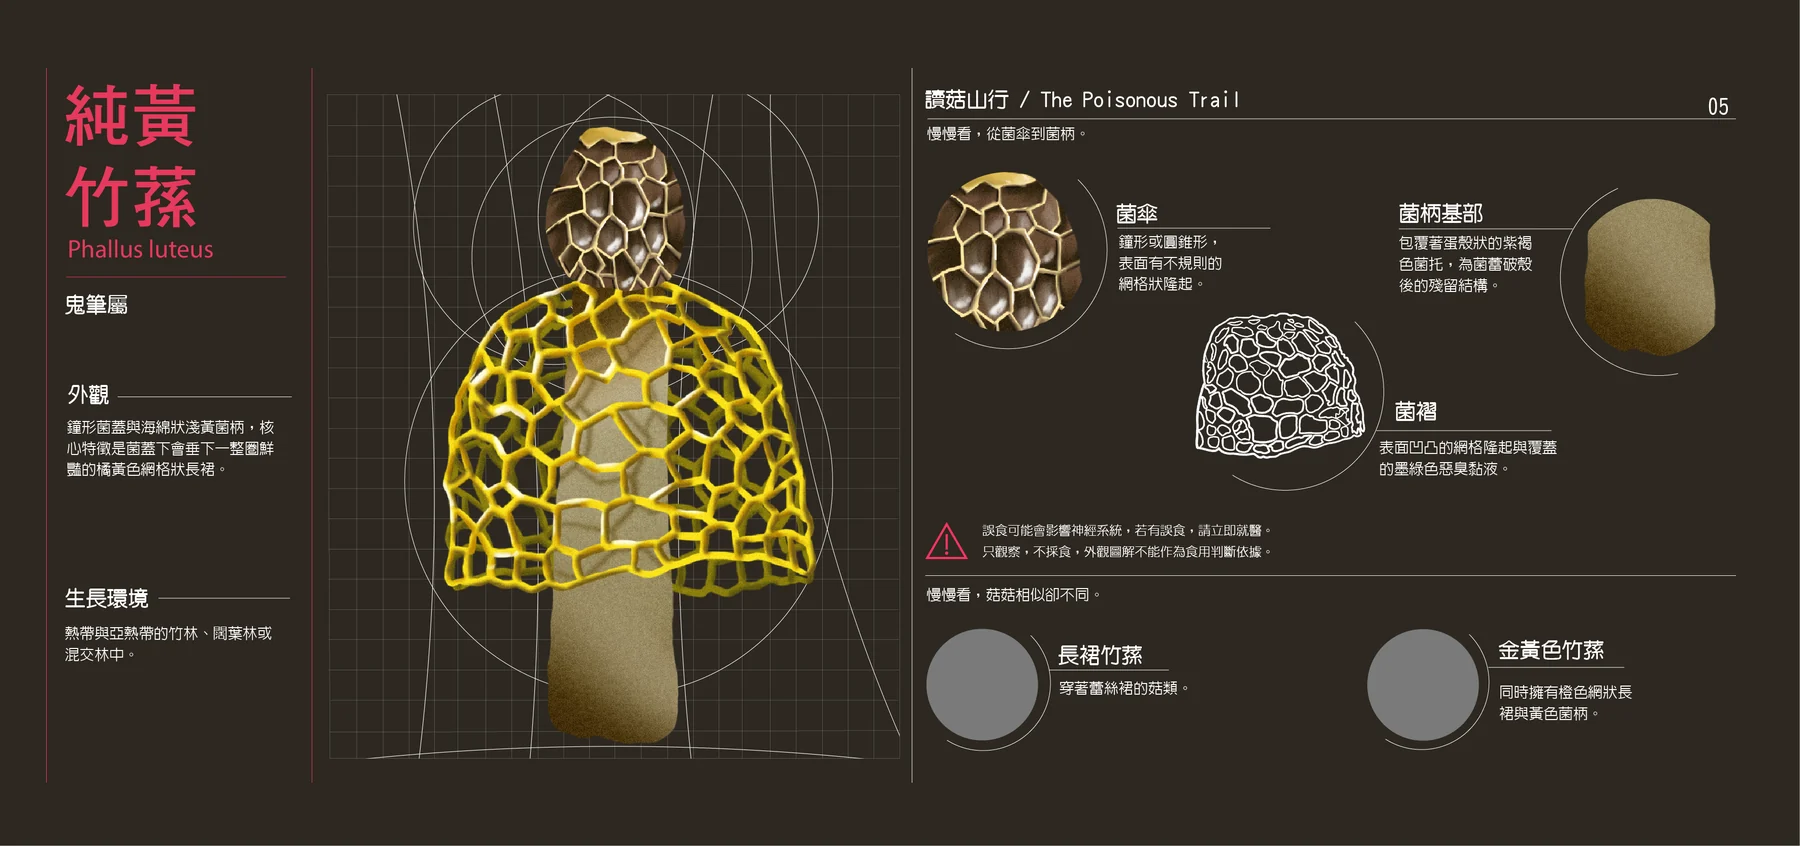
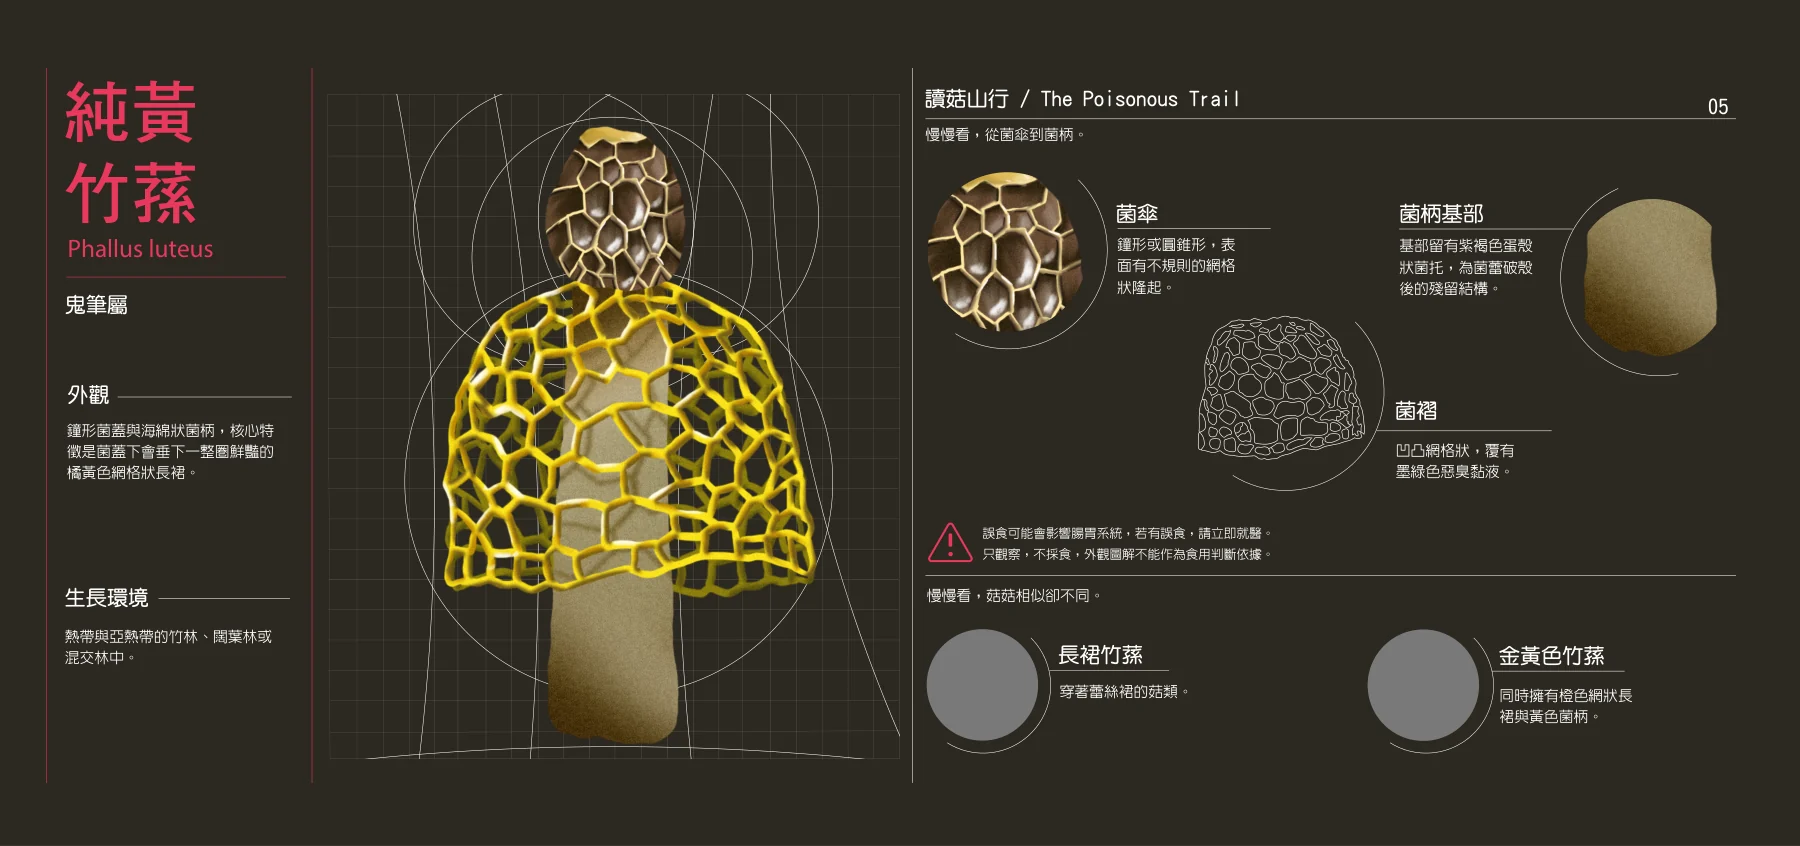
讀菇：書頁改用新版 PDF（含菌褶線稿）＋新增純黃白鬼傘書頁、書頁文字同步、新增 4 種相似可食菇圖

diff --git a/dugu-trail/js/data.js b/dugu-trail/js/data.js
@@ -250,39 +250,39 @@ window.TRAIL = (function () {
       look: '醒目的紅白相間棒狀。幼時為白色卵狀，成熟後伸出約 6–10 公分的菌棒；頂端為鮮紅色，覆有褐色異味黏液，菌柄則為粉白色海綿狀。',
       habitat: '喜好高溫高濕，常在夏秋梅雨或雨後，群生或單生於竹林、花園及草地中。主要依靠肥沃、濕潤且富含有機質的腐殖質土壤或枯死竹根生長。',
       symptom: '氣味強烈、不可食用，觸摸後請洗手。誤食可能造成身體不適，若有誤食，請立即就醫。',
-      book: { page: '01', parts: [['菌傘', '頭部並不呈傘狀，而是與菌柄癒合、不分離的棒狀構造。'], ['菌柄基部', '破裂的白色蛋殼中抽長出來。']],
-        like: [['狗蛇頭菌', '酷似雄狗的生殖器或昂首的蛇頭而得名。'], ['紅鬼筆', '特徵是「頭帽分離」的結構與鮮豔的紅色菌柄。']] },
+      book: { page: '01', parts: [['菌傘', '細長舌狀或棒狀，表面具有明顯的色澤變化。'], ['菌柄基部', '白色卵狀菌托，包覆菌柄下方，質地柔軟。'], ['菌褶', '表面多孔狀。']],
+        like: [['狗蛇頭菌', '酷似雄狗的生殖器或昂首的蛇頭而得名。'], ['紅鬼筆', '頭帽分離的結構與鮮豔的紅色菌柄。']] },
       like: ['phallus'] },
     chloro: { name: '綠褶菇', alias: '大青褶傘', sci: 'Chlorophyllum molybdites', fam: '青褶傘屬', tox: 3, type: '胃腸型',
       stage: 2, season: '春–秋（大雨後）', color: '#e9dcc6', img: 'img/mush/chloro.webp', verified: true,
       look: '菌蓋平緩、佈滿褐色鱗片，成熟時菌褶會變成灰綠色，且菌柄上有菌環。',
       habitat: '有毒的綠褶菇是地表腐生菌，常見於都市公園、分隔島草皮及一般農地，大雨後常在草地上長成一整圈的「仙女環」。',
       symptom: '食後 1–3 小時劇烈嘔吐、腹瀉、腹痛，是台灣誤食中毒案例最多的毒菇之一。若有誤食，請立即就醫。',
-      book: { page: '02', parts: [['菌傘', '平緩成傘狀，表面呈白色或淺土色。'], ['菌柄基部', '基部膨大，留有環帶狀殘留物。'], ['菌褶', '藏在菌傘下，白色而密集。']],
-        like: [['高大環柄菇', '體型巨大的蕈類，子實體完全張開時酷似一把大陽傘。'], ['雞肉絲菇', '體型巨大如陽傘，傘面佈滿蛇皮狀碎鱗片。']] },
-      like: ['lepiota', 'conocybe'] },
+      book: { page: '02', parts: [['菌傘', '菌蓋呈傘狀，表面帶有褐色鱗片。'], ['菌柄基部', '基部膨大，留有環帶狀殘留物。'], ['菌褶', '藏在菌傘下，白色而密集。']],
+        like: [['高大環柄菇', '體型碩大，成熟後菌蓋展開如大型陽傘。'], ['雞肉絲菇', '體型巨大如陽傘，菌蓋布滿蛇皮狀鱗片。']] },
+      like: ['macro', 'termito'] },
     panaeolus: { name: '蝶形斑褶菇', alias: '花褶傘', sci: 'Panaeolus papilionaceus', fam: '斑褶菇屬', tox: 3, type: '神經型',
       stage: 3, season: '春–秋', color: '#d8b07a', img: 'img/mush/panaeolus.webp', verified: true,
       look: '糞便上的鐘形小毒菇。具備灰黑色的鐘形傘帽、佈滿斑點的密集黑褶，以及暗紅褐色的細長菌柄。',
       habitat: '生於牛馬糞便上，常成群出現在低海拔、潮濕的牧場與草原。',
       symptom: '可能造成幻覺、焦慮、心跳加快與判斷力下降。若有誤食，請立即就醫。',
       book: { page: '03', parts: [['菌傘', '表面光滑，邊緣常殘留白色的碎屑。'], ['菌柄基部', '略微膨大，且無菌托與菌環。'], ['菌褶', '密集的直生狀，邊緣常帶有醒目的白色。']],
-        like: [['高大環柄菇', '體型巨大的蕈類，子實體完全張開時酷似一把大陽傘。'], ['雞肉絲菇', '體型巨大如陽傘，傘面佈滿蛇皮狀碎鱗片。']] },
+        like: [['高大環柄菇', '體型巨大的蕈類。子實體完全張開時酷似一把大陽傘。'], ['雞肉絲菇', '體型巨大如陽傘，傘面佈滿蛇皮狀碎鱗片。']] },
       like: ['psilocybe', 'inocybe'] },
     inocybe: { name: '汙白絲蓋傘', sci: 'Inocybe geophylla', fam: '絲蓋傘科', tox: 4, type: '毒蕈鹼型',
       stage: 17, season: '夏–秋', color: '#efe5d6', img: 'img/mush/inocybe.webp', verified: true,
       look: '菌蓋呈鐘形至圓錐形，成熟後逐漸平展，表面呈白色至乳白色，帶有細緻絲狀纖維。菌柄細長，呈白色，基部略微膨大。',
       habitat: '常見於針葉林及闊葉林地面，與樹木形成菌根共生關係，多生長於潮濕、富含腐植質的土壤中。',
       symptom: '食後約 30 分鐘大量流汗、流淚、流口水、視線模糊，嚴重時心跳變慢。若有誤食，請立即就醫。',
-      book: { page: '17', parts: [['菌傘', '表面具細緻絲狀纖維，中央微凸。'], ['菌柄基部', '基部略膨大，表面帶有細微纖維。'], ['菌褶', '幼時呈淡白色，成熟後逐漸轉為灰褐色至褐色。']],
-        like: [['野蘑菇', '幼時呈半球形，成熟後菌褶逐漸轉為褐色。'], ['淡紫絲蓋傘', '淡紫至乳白色，菌蓋具絲狀纖維。']] },
+      book: { page: '17', parts: [['菌傘', '表面具細緻絲狀纖維，中央微凸。'], ['菌柄基部', '基部略膨大，表面帶有細微纖維。'], ['菌褶', '排列緊密，成熟逐漸轉為淡褐色。']],
+        like: [['絲蓋小包腳菇', '絲狀菌蓋，菌柄細長，常見於潮濕環境。'], ['淡紫絲蓋傘', '淡紫至乳白色，菌蓋具絲狀纖維。']] },
       like: ['conocybe', 'panaeolus'] },
     phallus: { name: '純黃竹蓀', sci: 'Phallus luteus', fam: '鬼筆屬', tox: 2, type: '胃腸型',
       stage: 5, season: '夏（雨後清晨）', color: '#e2c021', img: 'img/mush/phallus.webp', verified: true,
       look: '鐘形菌蓋與海綿狀淺黃菌柄，核心特徵是菌蓋下會垂下一整圈鮮豔的橘黃色網格狀長裙。',
       habitat: '熱帶與亞熱帶的竹林、闊葉林或混交林中。',
       symptom: '與可食的長裙竹蓀外形相近，誤食可能嘔吐、腹瀉。若有誤食，請立即就醫。',
-      book: { page: '05', parts: [['菌傘', '鐘形或圓錐形，表面有不規則的網格狀隆起。'], ['菌柄基部', '包覆著蛋殼狀的紫褐色菌托，為菌蕾破殼後的殘留結構。'], ['菌褶', '表面凹凸的網格隆起與覆蓋的墨綠色惡臭黏液。']],
+      book: { page: '05', parts: [['菌傘', '鐘形或圓錐形，表面有不規則的網格狀隆起。'], ['菌柄基部', '基部留有紫褐色蛋殼狀菌托，為菌蕾破殼後的殘留結構。'], ['菌褶', '凹凸網格狀，覆有墨綠色惡臭黏液。']],
         like: [['長裙竹蓀', '穿著蕾絲裙的菇類。'], ['金黃色竹蓀', '同時擁有橙色網狀長裙與黃色菌柄。']] },
       like: ['mutinus', 'leucocoprinus'] },
   exitialis: { name: '致命鵝膏', sci: 'Amanita exitialis', fam: '鵝膏菌科', tox: 5, type: '肝毒型',
@@ -291,6 +291,31 @@ window.TRAIL = (function () {
       habitat: '低至中海拔闊葉林地面，與殼斗科植物共生。',
       symptom: '含鵝膏毒肽，潛伏 6–24 小時後嘔吐腹瀉，接著「假性好轉」，2–3 天後肝腎衰竭。',
       like: ['fuliginea', 'chloro'], svg: { kind: 'amanita', cap: '#f6f3ec', stem: '#f6f3ec', volva: 1 } },
+    /* 相似可食菇（03/相似菇/，本專題手繪）：ref＝只在「相似卻不同」出現，不放進山行層、不算圖鑑收集數 */
+    macro: { name: '高大環柄菇', alias: '雨傘菇', sci: 'Macrolepiota procera', fam: '蘑菇科', tox: 0, type: '可食・對照', ref: true,
+      stage: 2, season: '夏–秋', color: '#c9ad86', img: 'img/mush/macro.webp', verified: true,
+      look: '體型碩大，成熟後菌蓋展開如大型陽傘，傘面有褐色鱗片，菌柄細長、菌環可上下移動。',
+      habitat: '草地、林緣與竹林邊。',
+      symptom: '可食用，但和綠褶菇幾乎一模一樣（綠褶菇成熟後菌褶轉灰綠），是台灣最常見的誤採組合，野外不要自己採。',
+      like: ['chloro', 'termito'] },
+    termito: { name: '雞肉絲菇', sci: 'Termitomyces sp.', fam: '離褶傘科', tox: 0, type: '可食・對照', ref: true,
+      stage: 2, season: '夏（梅雨後）', color: '#cfb48e', img: 'img/mush/termito.webp', verified: true,
+      look: '體型巨大如陽傘，菌蓋布滿蛇皮狀鱗片，中央有尖凸，菌柄長、往下連到白蟻巢。',
+      habitat: '和白蟻共生，從地下的白蟻巢長出，常見於農地、竹林與林緣。',
+      symptom: '可食用的野菇，但大型白色傘菇也可能是綠褶菇，須由專家確認。',
+      like: ['chloro', 'macro'] },
+    pingu: { name: '平菇', sci: 'Pleurotus ostreatus', fam: '側耳科', tox: 0, type: '可食・對照', ref: true,
+      stage: 8, season: '秋–春', color: '#b8afa2', img: 'img/mush/pingu.webp', verified: true,
+      look: '扇形至貝殼形的灰白菌蓋，菌柄短而偏生，常一片片疊生在枯木上。',
+      habitat: '闊葉樹的枯木與倒木。',
+      symptom: '可食用；月夜茸也長在枯木上、外形相近，但月夜茸切開菌柄有黑斑、夜晚菌褶會發光。',
+      like: ['omphalotus', 'xianggu'] },
+    xianggu: { name: '香菇', sci: 'Lentinula edodes', fam: '類臍菇科', tox: 0, type: '可食・對照', ref: true,
+      stage: 8, season: '春、秋', color: '#8b5b3d', img: 'img/mush/xianggu.webp', verified: true,
+      look: '褐色圓形菌蓋，表面常有白色鱗片或龜裂花紋，菌柄居中、質地韌。',
+      habitat: '殼斗科等闊葉樹的倒木；台灣常見的多是段木或太空包栽培。',
+      symptom: '可食用；野外與月夜茸外形相近，月夜茸菌柄偏生、菌褶延生且夜晚發光。',
+      like: ['omphalotus', 'pingu'] },
     lepiota: { name: '褐鱗環柄菇', sci: 'Lepiota helveola', fam: '蘑菇科', tox: 5, type: '肝毒型',
       stage: 7, season: '夏–秋', color: '#b98a6b',
       look: '小型菌傘，表面有同心排列的紅褐色細鱗，菌柄有不明顯的菌環。',
@@ -338,7 +363,7 @@ window.TRAIL = (function () {
       look: '褐紫色扁平菌傘，菌褶在黑暗中發出淡綠色螢光。',
       habitat: '山毛櫸、楓類等闊葉樹的枯木上，潮濕的霧林夜晚最容易看見光。',
       symptom: '食後 30 分鐘至 1 小時劇烈嘔吐、腹痛，常被誤認為香菇或平菇。',
-      like: ['muer'], svg: { kind: 'shelf', cap: '#7a5a48', stem: '#a88c74', glow: '#8dffb0' } },
+      like: ['pingu', 'xianggu'], svg: { kind: 'shelf', cap: '#7a5a48', stem: '#a88c74', glow: '#8dffb0' } },
     pantherina: { name: '豹斑鵝膏', sci: 'Amanita pantherina', fam: '鵝膏菌科', tox: 4, type: '神經型',
       stage: 13, season: '夏–秋', color: '#8a6a4c',
       look: '褐色菌傘上布滿白色疣點，像豹紋；菌柄有菌環，基部膨大。',
@@ -398,6 +423,8 @@ window.TRAIL = (function () {
       look: '全身鮮檸檬黃色，菌傘表面有粉狀細鱗，成熟後邊緣出現放射狀溝紋。',
       habitat: '腐葉堆、竹林落葉層，也常出現在盆栽土與溫室裡。',
       symptom: '誤食可能引起嘔吐、腹瀉等腸胃不適。',
+      book: { page: '06', parts: [['菌傘', '表面覆有細粉狀鱗片，邊緣具明顯溝紋。'], ['菌柄基部', '整體菌柄纖細。'], ['菌褶', '排列緊密，排列密集且有小褶。']],
+        like: [['硫色白鬼傘', '菌蓋呈淡黃綠至硫磺色，表面覆有灰黑色纖毛或鱗片。'], ['三色白鬼傘', '表面多為白色至淡褐色或奶油色。']] },
       like: ['chloro'], svg: { kind: 'parasol', cap: '#f4dd55', spot: '#d9b320', stem: '#f2dc6a', small: 1 } },
     psilocybe: { name: '古巴裸蓋傘', sci: 'Psilocybe cubensis', fam: '裸蓋菇屬', tox: 3, type: '神經型',
       stage: 4, season: '夏–秋（雨後）', color: '#e9e2d6', img: 'img/mush/psilocybe.webp', verified: true,

diff --git a/js/home-data.js b/js/home-data.js
@@ -62,7 +62,7 @@ window.DUGU = (function () {
     'omphalotus', 'cornu', 'russula', 'entoloma', 'pulvero', 'gymnopilus', 'leucocoprinus', 'psilocybe'];
   const GILLS = new Set(['muscaria', 'inocybe', 'russula', 'omphalotus', 'pantherina', 'chloro', 'phallus', 'panaeolus', 'entoloma',
     'conocybe', 'psilocybe', 'leucocoprinus', 'nitidum', 'gymnopilus', 'phalloides', 'verna', 'virosa', 'pulvero']);
-  const BOOKPAGE = { mutinus: '01', chloro: '02', panaeolus: '03', psilocybe: '04', phallus: '05', verna: '16', inocybe: '17', gyromitra: '18', muscaria: '19' };
+  const BOOKPAGE = { mutinus: '01', chloro: '02', panaeolus: '03', psilocybe: '04', phallus: '05', leucocoprinus: '06', verna: '16', inocybe: '17', gyromitra: '18', muscaria: '19' };
   M.forEach(m => {
     m.img = `${T}img/mush/${m.id}.webp`;
     const ci = CARDS.indexOf(m.id);
@@ -70,8 +70,6 @@ window.DUGU = (function () {
     if (GILLS.has(m.id)) m.gill = `${T}img/gill/${m.id}.webp`;
     if (BOOKPAGE[m.id]) { m.page = BOOKPAGE[m.id]; m.plate = `${T}img/book/${m.id}.webp`; }
   });
-  // 書本排版/圖片檔 有 PDF、卷軸站還沒有的書頁（_tools 轉成 img/page/）
-  Object.assign(M.find(m => m.id === 'leucocoprinus'), { page: '06', plate: 'img/page/leucocoprinus.webp' });
   // 三冊圖鑑：依海拔分冊（封面＝03/封面/02_B版 黑卡紙鐳雕版，海拔與封面一致；中高海拔公尺數待組員確認）
   // 封面實體是三層黑卡紙：外框（鐳雕樹林草地、中間挖空）→ 彩繪毒菇 → 底層（紋路＋書名鐳雕）；網頁用 img/cover/frame・mush・base-* 疊出來
   // 書是「往上拉」的折頁書：上緣裝訂，一頁頁往上翻，翻上去的背面和下一頁對照

diff --git a/dugu-trail/js/app.js b/dugu-trail/js/app.js
@@ -17,7 +17,7 @@
 
   const WOOD = new Set(['muer', 'hypholoma', 'galerina', 'omphalotus']);
   const SPRITE = { gyromitra: { kind: 'brain', cap: '#9a5536', stem: '#efe2cf' }, muscaria: { kind: 'amanita', cap: '#d8232b', spot: '#fbf3ea', stem: '#f3eee6' } };
-  const ORDER = Object.values(MUSH).sort((a, b) => a.stage - b.stage);
+  const ORDER = Object.values(MUSH).filter(m => !m.ref).sort((a, b) => a.stage - b.stage);   // ref＝相似可食對照，只在菇卡裡出現
   const WX = { leaves: '落葉飄落', pollen: '花粉飛舞', spores: '孢子飄散', rain: '細雨', mist: '山嵐霧氣', fireflies: '夜間螢光', wind: '稜線強風', snow: '飄雪' };
   const found = new Set(store.get('dugu-found', []));
 
@@ -657,7 +657,7 @@
     autoSpin(false); cancelAnimationFrame(rot.tw);
     rot.rx = 0; rot.ry = 0; rot.m = m;
     drawer.style.setProperty('--c', m.color);
-    drawer.innerHTML = `<div class="dw-top"><span>讀菇山行 ／ The Poisonous Trail　·　No.${String(idx + 1).padStart(2, '0')}</span><button class="x" data-close aria-label="關閉">×</button></div>
+    drawer.innerHTML = `<div class="dw-top"><span>讀菇山行 ／ The Poisonous Trail　·　${idx < 0 ? '相似可食・對照' : 'No.' + String(idx + 1).padStart(2, '0')}</span><button class="x" data-close aria-label="關閉">×</button></div>
       <div class="dw-scroll">
         <div class="dw-stage mo-${mo}${m.glow ? ' glows' : ''}${m.tox >= 5 ? ' deadly' : ''}">
           <div class="st-rays"></div><div class="st-rings"><i></i><i></i><i></i></div><div class="st-halo"></div>

diff --git a/index.html b/index.html
@@ -208,8 +208,8 @@
 <div class="modal" id="modal" hidden><div class="md-box" role="dialog" aria-modal="true" aria-labelledby="mdName"><button class="md-x" data-close aria-label="關閉">×</button><div class="md-art" id="mdArt"></div><div class="md-txt" id="mdTxt"></div></div></div>
 <div class="lb" id="lb" hidden><figure style="margin:0"><img alt=""><p></p></figure></div>
 
-<script src="dugu-trail/js/data.js"></script>
-<script src="js/home-data.js?v=6"></script>
+<script src="dugu-trail/js/data.js?v=13"></script>
+<script src="js/home-data.js?v=7"></script>
 <script src="js/common.js?v=2"></script>
 <script src="js/home.js?v=28"></script>
 <script src="js/motion.js?v=1"></script>

diff --git a/products.html b/products.html
@@ -142,8 +142,8 @@
 <div class="modal" id="modal" hidden><div class="md-box" role="dialog" aria-modal="true" aria-labelledby="mdName"><button class="md-x" data-close aria-label="關閉">×</button><div class="md-art" id="mdArt"></div><div class="md-txt" id="mdTxt"></div></div></div>
 <div class="lb" id="lb" hidden><figure style="margin:0"><img alt=""><p></p></figure></div>
 
-<script src="dugu-trail/js/data.js"></script>
-<script src="js/home-data.js?v=6"></script>
+<script src="dugu-trail/js/data.js?v=13"></script>
+<script src="js/home-data.js?v=7"></script>
 <script src="js/common.js"></script>
 <script src="js/products.js"></script>
 <script src="js/ambient.js?v=1"></script>

diff --git a/dugu-trail/full.html b/dugu-trail/full.html
@@ -131,9 +131,9 @@
 </div>
 
 <script>window.TRAIL_FULL = true;   /* 補上還沒有插畫的層（示意畫面） */</script>
-<script src="js/data.js?v=12"></script>
+<script src="js/data.js?v=13"></script>
 <script src="js/mush-geom.js?v=5"></script>
 <script src="js/art.js?v=2"></script>
-<script src="js/app.js?v=22"></script>
+<script src="js/app.js?v=23"></script>
 </body>
 </html>

diff --git a/dugu-trail/index.html b/dugu-trail/index.html
@@ -129,9 +129,9 @@
   </div>
 </div>
 
-<script src="js/data.js?v=12"></script>
+<script src="js/data.js?v=13"></script>
 <script src="js/mush-geom.js?v=5"></script>
 <script src="js/art.js?v=2"></script>
-<script src="js/app.js?v=22"></script>
+<script src="js/app.js?v=23"></script>
 </body>
 </html>
